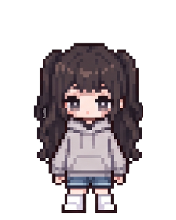
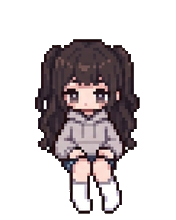
小家：替换沙发正面坐姿与床上睡衣坐姿贴图（v3）
区分床上坐起睡衣（pajama）与沙发正面坐姿（sit），保留 44501cb 双层交叉淡入与 roomEngine 逻辑。

Changed region(s): [[0.1705, 0.1636, 0.8239, 0.9818]]

diff --git a/frontend/src/room/roomSlots.ts b/frontend/src/room/roomSlots.ts
@@ -185,7 +185,7 @@ export type CharacterAction =
   | "walk_1" | "walk_2" | "walk_3" | "walk_4"
   | "walk_front_1" | "walk_front_2" | "walk_front_3" | "walk_front_4"
   | "walk_back_1" | "walk_back_2" | "walk_back_3" | "walk_back_4"
-  | "sit" | "wave" | "sleep";
+  | "sit" | "pajama" | "wave" | "sleep";
 
 export const BOY_SPRITES: Record<CharacterAction, RoomImage> = {
   idle: require("../../assets/room_v2/boy_idle.png"),
@@ -202,6 +202,7 @@ export const BOY_SPRITES: Record<CharacterAction, RoomImage> = {
   walk_back_3: require("../../assets/room_v2/boy_walk_back_3.png"),
   walk_back_4: require("../../assets/room_v2/boy_walk_back_4.png"),
   sit: require("../../assets/room_v2/boy_sit.png"),
+  pajama: require("../../assets/room_v2/boy_pajama.png"),
   wave: require("../../assets/room_v2/boy_wave.png"),
   sleep: require("../../assets/room_v2/boy_sleep.png"),
 };
@@ -221,6 +222,7 @@ export const GIRL_SPRITES: Record<CharacterAction, RoomImage> = {
   walk_back_3: require("../../assets/room_v2/girl_walk_back_3.png"),
   walk_back_4: require("../../assets/room_v2/girl_walk_back_4.png"),
   sit: require("../../assets/room_v2/girl_sit.png"),
+  pajama: require("../../assets/room_v2/girl_pajama.png"),
   wave: require("../../assets/room_v2/girl_wave.png"),
   sleep: require("../../assets/room_v2/girl_sleep.png"),
 };

diff --git a/frontend/src/components/PearlInteractiveRoom.tsx b/frontend/src/components/PearlInteractiveRoom.tsx
@@ -68,7 +68,7 @@ function spriteFor(frame: ActorFrame): CharacterAction {
     return WALK[frame.step];
   }
   if (frame.phase === "SLEEP") return "sleep";
-  if (frame.phase === "SIT") return "sit";
+  if (frame.phase === "SIT") return frame.furniture === "bed" ? "pajama" : "sit";
   return frame.wave ? "wave" : "idle";
 }
 
